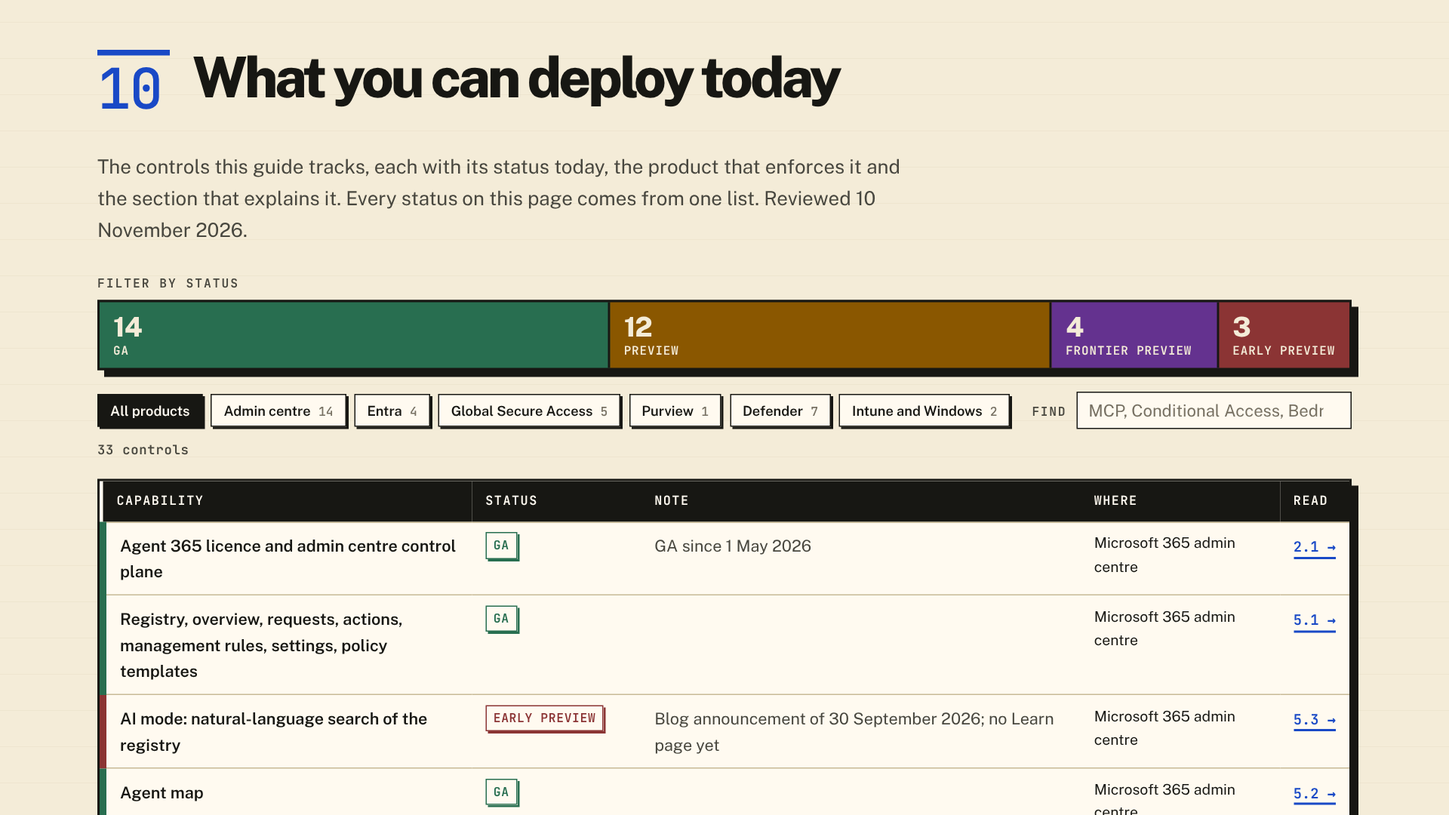
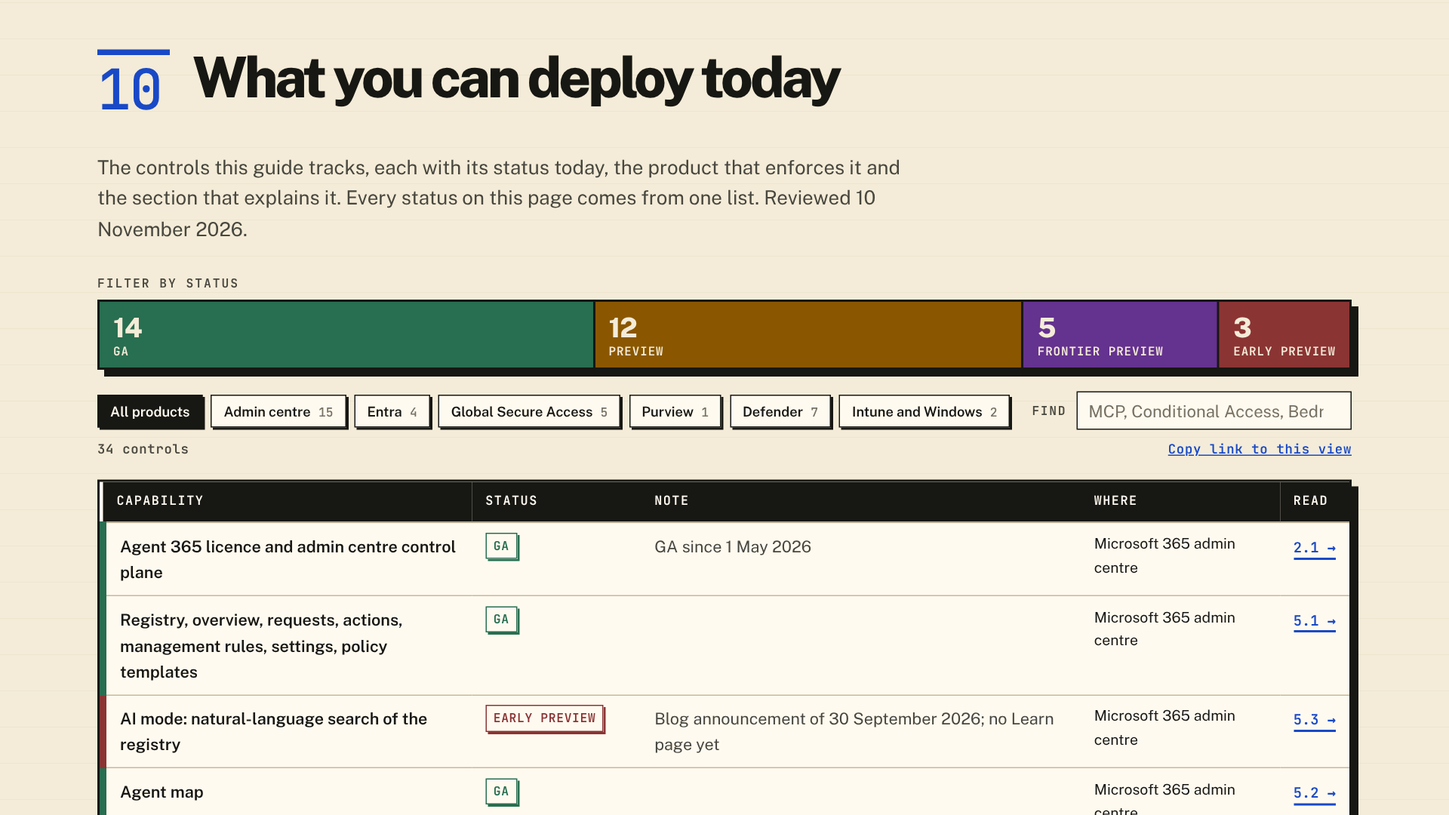
Pre-merge review: shareable board views, clear filters, filter counts in the digest, use case classification in 6.4
Claude-Session: https://claude.ai/code/session_01MXrm99psAGu2YZowAsLrtz

diff --git a/index.html b/index.html
@@ -619,6 +619,7 @@
   <section id="s6-4" data-search>
   <h3>6.4 Tenant settings</h3>
   <p>The same page controls agent and plugin access (Microsoft, your organisation, external publishers), sharing scope for Agent Builder agents, user access (all, none, or specific groups), developer feedback, and up to fifty tags. User access is the blunt instrument: specific groups means only those groups can use any agent. Agent and plugin access is the finer one, and it covers plugins too: tools, MCP servers, connectors and skills. Disabling external publishers hides third-party agents and plugins from the Agent store; Microsoft-built ones stay visible when disabled but cannot be installed. Data processed by non-Microsoft agents and plugins is not covered by your Microsoft agreements, so review the publisher's terms before allowing that category. One boundary to know: the <a href="https://learn.microsoft.com/en-us/microsoft-365/admin/manage/manage-copilot-agents-integrated-apps" target="_blank" rel="noopener">Manage agents page</a> says Researcher and Analyst are part of the core Copilot Chat experience and do not fall under any agent-related setting, so nothing on this page reaches them.</p>
+  <p data-tier="use-case-classification">One setting here is on by default. <a href="https://learn.microsoft.com/en-us/microsoft-agent-365/admin/business-use-case-for-agents" target="_blank" rel="noopener">Use case classification</a>, <span class="st" data-st="use-case-classification"></span>, assigns every eligible agent session to a use case from a predefined taxonomy, such as requirements documentation or data loss prevention. The totals show on each agent's Activity tab and in the agent map. The labels come from that taxonomy, so project names and other tenant terms do not surface. A Global Administrator or AI Administrator turns it off under Agents, Settings, Use case classification. Classification stops within about a day, and earlier results are hidden, not deleted. Microsoft calls the results directionally accurate and not an audit record, so treat them as a trend.</p>
   </section>
 
   <section id="s6-5" data-search>
@@ -1189,7 +1190,7 @@ Set-MpPreference -AiAgentNetworkInspection Audit</code></pre>
   <div class="board" id="board">
     <div class="meter" data-meter="board"></div>
     <div class="board-tools" id="board-tools"></div>
-    <p class="board-count" id="board-count" aria-live="polite"></p>
+    <p class="board-count"><span id="board-count" aria-live="polite"></span><button type="button" class="linkbtn" id="board-clear" hidden>Clear filters</button><button type="button" class="linkbtn" id="board-copy" hidden>Copy link to this view</button></p>
     <div class="tbl board-tbl"><table id="avail">
     <thead><tr><th>Capability</th><th>Status</th><th>Note</th><th>Where</th><th>Read</th></tr></thead>
     <tbody>
@@ -1207,6 +1208,7 @@ Set-MpPreference -AiAgentNetworkInspection Audit</code></pre>
     <tr data-tier="byo-mcp" data-tier-value="preview"><td class="c-name">Bring your own MCP server</td><td class="c-status"><span class="badge t-preview">Preview</span></td><td class="c-note muted"></td><td class="c-where">Admin centre and CLI</td><td class="c-read"><a href="#s6-5">6.5</a></td></tr>
     <tr data-tier="shadow-ai-page" data-tier-value="frontier"><td class="c-name">Shadow AI page</td><td class="c-status"><span class="badge t-frontier">Frontier preview</span></td><td class="c-note muted"></td><td class="c-where">Microsoft 365 admin centre</td><td class="c-read"><a href="#s5-5">5.5</a></td></tr>
     <tr data-tier="local-agents-page" data-tier-value="frontier"><td class="c-name">Local agents page</td><td class="c-status"><span class="badge t-frontier">Frontier preview</span></td><td class="c-note muted"></td><td class="c-where">Microsoft 365 admin centre</td><td class="c-read"><a href="#s5-5">5.5</a></td></tr>
+    <tr data-tier="use-case-classification" data-tier-value="frontier"><td class="c-name">Use case classification of agent sessions</td><td class="c-status"><span class="badge t-frontier">Frontier preview</span></td><td class="c-note muted">On by default; opt out under Agents, Settings</td><td class="c-where">Microsoft 365 admin centre</td><td class="c-read"><a href="#s6-4">6.4</a></td></tr>
     <tr data-tier="own-identity" data-tier-value="frontier"><td class="c-name">Agents with their own identity, AI teammate templates</td><td class="c-status"><span class="badge t-frontier">Frontier preview</span></td><td class="c-note muted"></td><td class="c-where">Microsoft 365 admin centre</td><td class="c-read"><a href="#s6-8">6.8</a></td></tr>
     <tr data-tier="agent-id" data-tier-value="ga"><td class="c-name">Entra Agent ID, blueprints, identities, agent users</td><td class="c-status"><span class="badge t-ga">GA</span></td><td class="c-note muted">GA for all Entra customers</td><td class="c-where">Entra</td><td class="c-read"><a href="#s7-1">7.1</a></td></tr>
     <tr data-tier="conditional-access" data-tier-value="ga"><td class="c-name">Conditional Access for agents</td><td class="c-status"><span class="badge t-ga">GA</span></td><td class="c-note muted">Agent risk and Agent execution environments conditions in preview</td><td class="c-where">Entra</td><td class="c-read"><a href="#s7-1">7.1</a></td></tr>

diff --git a/guide.js b/guide.js
@@ -89,7 +89,29 @@
     tools.querySelectorAll('[data-fam]').forEach(b => b.addEventListener('click', () => { filter.family = b.dataset.fam; applyBoard(); }));
     tools.querySelector('#board-q').addEventListener('input', e => { filter.q = e.target.value.trim().toLowerCase(); applyBoard(); });
   }
-  if (reset) reset.addEventListener('click', () => { filter.tier = filter.family = filter.q = ''; const q = document.getElementById('board-q'); if (q) q.value = ''; applyBoard(); });
+  const clearAll = () => { filter.tier = filter.family = filter.q = ''; const q = document.getElementById('board-q'); if (q) q.value = ''; applyBoard(); };
+  const clear = document.getElementById('board-clear'), copy = document.getElementById('board-copy');
+  if (reset) reset.addEventListener('click', clearAll);
+  if (clear) clear.addEventListener('click', clearAll);
+
+  /* The address bar follows the status and product filters, so the view can be shared. */
+  const viewQuery = () => { const p = new URLSearchParams(); if (filter.tier) p.set('status', filter.tier); if (filter.family) p.set('product', filter.family.toLowerCase()); const q = p.toString(); return q ? '?' + q : ''; };
+  const syncAddress = () => { try { const want = location.pathname + viewQuery() + location.hash; if (want !== location.pathname + location.search + location.hash) history.replaceState(null, '', want); } catch (e) {} };
+  if (copy) {
+    copy.hidden = false;
+    copy.addEventListener('click', () => {
+      const url = location.origin + location.pathname + viewQuery() + '#s10';
+      const done = () => { copy.textContent = 'Link copied'; setTimeout(() => { copy.textContent = 'Copy link to this view'; }, 1800); };
+      if (navigator.clipboard && navigator.clipboard.writeText) navigator.clipboard.writeText(url).then(done, () => window.prompt('Copy this link', url));
+      else window.prompt('Copy this link', url);
+    });
+  }
+
+  /* Which filters readers reach for goes to the weekly digest: one count per filter per visit,
+     as #filter-preview or #filter-defender. What is typed in the find box is never recorded. */
+  const counted = new Set();
+  const countFilter = (v) => { if (!v || counted.has(v) || !window.goatcounter || !window.goatcounter.count) return; counted.add(v);
+    window.goatcounter.count({ path: location.pathname + '#filter-' + v.toLowerCase().replace(/[^a-z]+/g, '-'), title: 'Status board filter: ' + v, event: false }); };
 
   applyBoard = () => {
     let shown = 0;
@@ -104,6 +126,8 @@
     if (count) count.textContent = shown === rows.length ? `${rows.length} controls` : `Showing ${shown} of ${rows.length} controls` + (gaOnly ? '. The GA only switch in the header is on.' : '');
     if (empty) empty.hidden = shown > 0;
     const wrap = document.querySelector('.board-tbl'); if (wrap) wrap.hidden = shown === 0;
+    if (clear) clear.hidden = !(filter.tier || filter.family || filter.q) || shown === 0;
+    syncAddress(); countFilter(filter.tier); countFilter(filter.family);
   };
 
   /* A link can open the board already filtered: index.html?status=preview&product=Defender#s10 */

diff --git a/a365-data.js b/a365-data.js
@@ -41,6 +41,7 @@ window.A365 = {
     roadmap:  { label: "Early preview",    phrase: "in early preview" }
   },
   changes: [
+    { date: "10 November 2026", section: "s6-4", text: "Use case classification, a Frontier preview that is on by default, assigns every eligible agent session to a use case from a predefined taxonomy; a Global Administrator or AI Administrator can turn it off under Agents, Settings, and earlier results are then hidden, not deleted. Business use cases for agents page cited." },
     { date: "10 November 2026", section: "s5-4", text: "Agent 365 SDK 2.0 is available for Python, JavaScript and .NET. Most of its breaking changes sit in the deprecated observability packages; in .NET the authToken parameter no longer authenticates MCP servers, so an agent that relied on it alone returns no tools and no error. Migrate to Agent 365 SDK 2.0 page cited." },
     { date: "10 November 2026", section: "s5-5", text: "Defender for Endpoint lists a process-based agent as soon as its process runs, so an inventory entry is not proof that anyone used the tool. Local AI agent discovery page cited." },
     { date: "10 November 2026", section: "s10", kind: "guide", text: "Chapter 10 is a status board: a meter counts the controls by status and filters the list, product chips and a find box narrow it, every row links to the section that explains it, and on a phone each control is a card. Sections changed in the last fortnight carry an Updated marker, the newest changes sit under the hero, and the changelog has its own page." },
@@ -113,6 +114,7 @@ window.A365 = {
     { key: "byo-mcp",            name: "Bring your own MCP server", tier: "preview", sec: "s6-5", where: "Admin centre and CLI" },
     { key: "shadow-ai-page",     name: "Shadow AI page", tier: "frontier", sec: "s5-5", where: "Microsoft 365 admin centre" },
     { key: "local-agents-page",  name: "Local agents page", tier: "frontier", sec: "s5-5", where: "Microsoft 365 admin centre" },
+    { key: "use-case-classification", name: "Use case classification of agent sessions", tier: "frontier", note: "On by default; opt out under Agents, Settings", sec: "s6-4", where: "Microsoft 365 admin centre" },
     { key: "own-identity",       name: "Agents with their own identity, AI teammate templates", tier: "frontier", sec: "s6-8", where: "Microsoft 365 admin centre" },
     { key: "agent-id",           name: "Entra Agent ID, blueprints, identities, agent users", tier: "ga", note: "GA for all Entra customers", sec: "s7-1", where: "Entra" },
     { key: "conditional-access", name: "Conditional Access for agents", tier: "ga", note: "Agent risk and Agent execution environments conditions in preview", sec: "s7-1", where: "Entra" },

diff --git a/changes.html b/changes.html
@@ -68,7 +68,7 @@
   <h1>What changed in the Agent 365 field guide, and when</h1>
   <p class="lede">Agent 365 moves weekly, and so does the Learn documentation behind it. Every Monday each Learn page this guide cites is read again, and when one has moved the guide moves with it. This page is the record: one entry per change, newest first, with the section it touched and the Learn page it came from. Entries about the guide itself are marked Guide.</p>
   <div class="field-stats" aria-label="Page summary">
-    <span><b data-static="changes-count">57</b> changes logged</span>
+    <span><b data-static="changes-count">58</b> changes logged</span>
     <span><b data-val="reviewed">10 November 2026</b> last reviewed</span>
     <span><b>4 September 2026</b> first published</span>
     <span><b>Every Monday</b> Learn pages re-read</span>
@@ -82,6 +82,7 @@
   <section id="d2026-11-10">
   <h3>10 November 2026</h3>
   <ul class="changes">
+    <li><b><a href="index.html#s6-4">6.4</a></b> Use case classification, a Frontier preview that is on by default, assigns every eligible agent session to a use case from a predefined taxonomy; a Global Administrator or AI Administrator can turn it off under Agents, Settings, and earlier results are then hidden, not deleted. Business use cases for agents page cited.</li>
     <li><b><a href="index.html#s5-4">5.4</a></b> Agent 365 SDK 2.0 is available for Python, JavaScript and .NET. Most of its breaking changes sit in the deprecated observability packages; in .NET the authToken parameter no longer authenticates MCP servers, so an agent that relied on it alone returns no tools and no error. Migrate to Agent 365 SDK 2.0 page cited.</li>
     <li><b><a href="index.html#s5-5">5.5</a></b> Defender for Endpoint lists a process-based agent as soon as its process runs, so an inventory entry is not proof that anyone used the tool. Local AI agent discovery page cited.</li>
     <li><b><a href="index.html#s10">10</a></b> Chapter 10 is a status board: a meter counts the controls by status and filters the list, product chips and a find box narrow it, every row links to the section that explains it, and on a phone each control is a card. Sections changed in the last fortnight carry an Updated marker, the newest changes sit under the hero, and the changelog has its own page.</li>

diff --git a/guide.css b/guide.css
@@ -509,7 +509,7 @@ footer{border-block-start:8px solid var(--ink);background:var(--paper-2)}
 .find span{font:700 .68rem var(--mono);letter-spacing:.1em;text-transform:uppercase;color:var(--ink-2)}
 .find input{flex:1;min-width:0;font:400 .92rem var(--sans);padding:.45rem .6rem;border:1.5px solid var(--ink);border-radius:0;background:var(--paper-2);color:var(--ink)}
 .find input::placeholder{color:var(--ink-3)}
-.board-count{font:600 .72rem var(--mono);letter-spacing:.04em;color:var(--ink-2);margin:.4rem 0 0;max-width:none}
+.board-count{display:flex;flex-wrap:wrap;gap:.3rem 1.1rem;align-items:baseline;font:600 .72rem var(--mono);letter-spacing:.04em;color:var(--ink-2);margin:.4rem 0 0;max-width:none}.board-count .linkbtn{font:600 .72rem var(--mono);letter-spacing:.04em}.board-count .linkbtn[hidden]{display:none}#board-copy{margin-inline-start:auto}
 .board-empty{margin-block:1.2rem;padding:1rem 1.1rem;border:2px dashed var(--ink-3);max-width:none}
 .linkbtn{font:inherit;color:var(--accent);background:none;border:0;padding:0;text-decoration:underline;cursor:pointer;min-height:0}
 .board-tbl[hidden]{display:none}
@@ -528,7 +528,7 @@ footer{border-block-start:8px solid var(--ink);background:var(--paper-2)}
 #avail tbody tr:hover{background:color-mix(in srgb,var(--accent-soft) 55%,transparent)}
 
 .latest{margin-block:2rem 0;padding:1rem 1.1rem 1.05rem;border:2px solid var(--ink);background:var(--paper-2);box-shadow:6px 6px 0 var(--signal);max-width:100%}
-.latest-hero{margin-block-start:1.6rem}
+.latest-hero{margin-block-start:1.6rem}.latest-hero .latest-list span{display:-webkit-box;-webkit-box-orient:vertical;-webkit-line-clamp:2;line-clamp:2;overflow:hidden}
 .latest-list{list-style:none;margin:0;padding:0;max-width:none}
 .latest-list li{display:grid;grid-template-columns:4.2rem 2.6rem minmax(0,1fr);gap:.2rem .7rem;align-items:baseline;padding-block:.5rem;border-block-start:1px solid var(--rule);margin:0}
 .latest-list li:first-child{border-block-start:0;padding-block-start:.1rem}

diff --git a/scripts/feedback_collect.py b/scripts/feedback_collect.py
@@ -140,7 +140,10 @@ def goatcounter():
             return rest == "" or rest.endswith(".html")
         rows = [r for r in hits.get("hits", []) if (r.get("path") or "").startswith(SITE_PATH) and is_page(r["path"])]
         pages = [r for r in rows if "#" not in r["path"]]
-        sections = [r for r in rows if "#" in r["path"]]
+        hashed = [r for r in rows if "#" in r["path"]]
+        # guide.js records a status board filter as #filter-preview or #filter-defender.
+        board = [r for r in hashed if r["path"].split("#", 1)[1].startswith("filter-")]
+        sections = [r for r in hashed if r not in board]
         visitors = sum(r.get("count", 0) for r in pages)
         lines.append(f"Last 7 days: **{visitors} visitors** on `{SITE_PATH}` against a target of {TARGET} "
                      f"({len(sections)} distinct sections opened by hash).")
@@ -164,6 +167,11 @@ def goatcounter():
             lines.append("|---|---|")
             for r in sorted(sections, key=lambda r: -r.get("count", 0))[:15]:
                 lines.append(f"| {r['path'].split('#', 1)[1]} | {r.get('count', 0)} |")
+        if board:
+            lines.append("")
+            lines.append("Status board filters used (chapter 10; one count per filter per visit):")
+            for r in sorted(board, key=lambda r: -r.get("count", 0)):
+                lines.append(f"- {r['path'].split('#filter-', 1)[1]}: {r.get('count', 0)}")
         ids = [r["path_id"] for r in rows if "path_id" in r]
         if ids:
             q = urllib.parse.urlencode({**rng, "limit": 10, "include_paths": ids}, doseq=True)

diff --git a/PLAN.md b/PLAN.md
@@ -37,21 +37,21 @@ and the article pull request (#78), because their commits are in it.
   sentence corrected against the 9 November Learn change, a second cover
   showing the status board. Three Low writing-review flags wait on Rodney;
   the default is keep.
-- **Open decision: business use cases (Frontier).** Learn has two new pages.
-  Agent Map classifies every agent session into a predefined business use
-  case, on by default, with an opt-out under Agents, Settings, Use case
-  classification. The value reporting is out of scope by the 11 October
-  decision on the Consumption Dashboard. The default-on classification of
-  session activity and its opt-out are a setting a compliance engineer would
-  want to know about; a sentence in 6.4 would cover it. Not added.
+- **Use case classification is in 6.4** (10 November, added in the
+  pre-merge review). Agent Map classifies every eligible agent session into
+  a predefined business use case, on by default, with an opt-out under
+  Agents, Settings. The setting, who can change it and what happens to
+  earlier results are in the guide as a Frontier preview control. The value
+  and return-on-investment reporting built on it stays out, by the
+  11 October decision on the Consumption Dashboard; see Out of scope. Take
+  the paragraph out if you would sooner not cover it.
 - **The week of 26 October is explained, and the native-post test is run.**
   Rodney posted the 25 October feed post with the chapter 4 map, from the
   draft on the closed pull request #73, and said so on 10 November. It drew
   3,605 impressions, 74 per cent out of network, 30 saves, 5 reposts, 19
   followers and 40 clicks; the article of 6 October drew 986 impressions, 2
   saves and no followers. Numbers side by side in
-  `distribution/2026-10-25-linkedin-post.md`. The post URL is still to
-  record.
+  `distribution/2026-10-25-linkedin-post.md`.
 - **Format: Rodney is leaning post-first** (10 November). A feed post in the
   same shape is drafted for today in `distribution/2026-11-10-linkedin-post.md`
   with the status board as its image, beside the article draft; post one, not
@@ -219,6 +219,7 @@ Decided by Rodney, with the date, so nobody re-opens these by accident.
 | Since | Topic | Decision |
 |---|---|---|
 | 21 September 2026 | Microsoft 365 Government Community Cloud (GCC, G7) availability | Out of scope. GCC is a United States programme and this guide's readers are not in it. The service description's "GCC Availability" column is not tracked and chapter 2 carries no GCC caveat. Reopen only if a reader asks for it explicitly, through an issue. Drift pull requests that mention GCC changes can be merged without adding prose. |
+| 10 November 2026 | Business use cases for agents (Frontier) | Partly. The Use case classification setting is in 6.4: it is on by default, classifies agent sessions, and an administrator can turn it off, which a compliance engineer needs to know. The adoption, duplication and return-on-investment reporting built on the classifications is out of scope, for the same reason as the Consumption Dashboard. Added by Claude in a pre-merge review; Rodney to confirm or remove. |
 | 11 October 2026 | Cost management and the Consumption Dashboard | Partly. Spending policies (credit caps and model allow-lists per group) are in scope as a chapter 6 section once a Learn page exists; see item 9 above. The Consumption Dashboard's credits-to-value reporting is out of scope: a finance report, not a control a security or compliance engineer deploys. Reopen only if a reader asks. |
 | 6 October 2026 | FedRAMP and other US federal authorisations | Out of scope, for the same reason as GCC: the guide is for commercial customers in Europe and worldwide, and no European buyer decides on FedRAMP. The 5 October drift run added a FedRAMP High sentence to 2.1; it was taken out before merging. The drift prompt now names GCC and FedRAMP as out of scope, so future runs note them in CHANGES.md without editing prose. Data residency and the EU Data Boundary stay in 5.6. |
 
@@ -228,11 +229,12 @@ Newest first. One line per item shipped, with the pull request.
 
 | Date | Focus | Shipped | Evidence |
 |---|---|---|---|
+| 10 November 2026 | Structure | Pre-merge review of the status board against how the guide is used: shared in Teams and LinkedIn, steered by the Monday digest. Four additions. A Clear filters control whenever a filter is on (before, a status filter could only be undone by pressing the same segment again). The address bar follows the status and product filters and a Copy link to this view control copies it, so a filtered view can be sent to a customer. Each status or product filter a reader uses is counted once per visit and listed in the digest under "Status board filters used"; what is typed in the find box is never recorded. The hero's latest changes are cut to two lines each. Thirty-four controls with the new 6.4 row. | this pull request |
 | 10 November 2026 | Structure | Chapter 10 rebuilt as a status board, on the evidence that it is the landing section (44, 94 and 73 per cent of visitors in the last three digests) and that its table clipped two columns on a phone. A meter counts the controls by status and filters on click; product chips and a find box narrow the list; each row carries a status stripe and a link to the section that explains it, from a new `sec` field on every capability; at 760px and below each row is a card. The same meter sits under the hero with the three newest product changes, the end of chapter 10 lists the five newest and three ways onward, and sections a product change touched in the fortnight before the review date carry an Updated marker and a dot in the contents panel. The board's rows are a static copy written by `check_pages.py --fix`, so crawlers and readers without JavaScript see the statuses; a link can open the board filtered (`?status=preview&product=defender#s10`). Identity unchanged: same type, palette, borders and offset shadows. Rendered at 390, 768 and 1440 in light and dark: no overflow, no script errors, filters, GA only switch and deep link exercised. | this pull request |
 | 10 November 2026 | 1 | `changes.html`, the changelog on its own page, built on 21 October and merged now: own title, description, canonical link and JSON-LD, in the sitemap, entries grouped by month and date with an anchor per date. Static copy of the `changes` array, regenerated and checked by `check_pages.py`. | this pull request |
-| 10 November 2026 | 3 | Reviewed the 9 November drift pull request against the live pages and merged it into this one. Kept: Connected platforms connect from a fixed set of outbound IP addresses, and a blocked connection can show an authentication error (5.4); Defender for Endpoint finds Visual Studio Code extensions from installed-extension data without a run (5.5). Added: an inventory entry is not proof of use (5.5); Agent 365 SDK 2.0 and the .NET `authToken` change, from the new migration page (5.4). Not added, for Rodney to decide: business use case classification (Frontier), on by default with an opt-out. Review date 10 November. Writing review on the new prose: two flags in my own sentences reworded before commit (a staged "One does not:" in 5.4, a repeated "Every" opening chapter 10). | #79 and this pull request |
+| 10 November 2026 | 3 | Reviewed the 9 November drift pull request against the live pages and merged it into this one. Kept: Connected platforms connect from a fixed set of outbound IP addresses, and a blocked connection can show an authentication error (5.4); Defender for Endpoint finds Visual Studio Code extensions from installed-extension data without a run (5.5). Added: an inventory entry is not proof of use (5.5); Agent 365 SDK 2.0 and the .NET `authToken` change, from the new migration page (5.4). Added in the pre-merge review: use case classification (Frontier), on by default with an opt-out, as a paragraph in 6.4 and a row on the board; its value reporting stays out of scope. Review date 10 November. Writing review on the new prose: two flags in my own sentences reworded before commit (a staged "One does not:" in 5.4, a repeated "Every" opening chapter 10). | #79 and this pull request |
 | 10 November 2026 | Plumbing | The drift workflow runs `check_pages.py --fix` before its check, commits `changes.html` and `sitemap.xml`, and reports what still fails in the check's own words. Before, every drift pull request arrived with a stale sitemap and a fixed "chapter 2 differs" line whatever had failed. The prompt tells the model to give a new capability a `sec` and to leave the static copies alone. | this pull request |
-| 10 November 2026 | 4 | The 25 October feed post logged as posted, about 26 October, with the chapter 4 map: 3,605 impressions (74% out of network), 2,181 members reached, 43 reactions, 7 comments, 5 reposts, 30 saves, 19 followers gained, 40 clicks to the guide; GoatCounter counted 49 LinkedIn visitors that week, 62 of 66 visitors on chapter 10. Against the 6 October article: 3.7 times the impressions, 3.8 times the visitors, 15 times the saves. The native-post test from 6 October is therefore run and the post won, with the caveat that it also carried a new diagram. Draft and cover restored from the closed pull request #73. A feed post in the same shape drafted for 10 November with the status board as its image; the feed post format added to `distribution/README.md`. | `distribution/2026-10-25-linkedin-post.md`; post URL to add |
+| 10 November 2026 | 4 | The 25 October feed post logged as posted, about 26 October, with the chapter 4 map: 3,605 impressions (74% out of network), 2,181 members reached, 43 reactions, 7 comments, 5 reposts, 30 saves, 19 followers gained, 40 clicks to the guide; GoatCounter counted 49 LinkedIn visitors that week, 62 of 66 visitors on chapter 10. Against the 6 October article: 3.7 times the impressions, 3.8 times the visitors, 15 times the saves. The native-post test from 6 October is therefore run and the post won, with the caveat that it also carried a new diagram. Draft and cover restored from the closed pull request #73. A feed post in the same shape drafted for 10 November with the status board as its image; the feed post format added to `distribution/README.md`. | [post](https://lnkd.in/p/eSvCrqWR) |
 | 10 November 2026 | 4 | The article for the week of 9 November updated for the 9 November drift and the redesign: discovery sentence corrected, a bullet for the outbound IP addresses (eight bullets), the "Also new" bullet leads with the status board, a second cover rendered from the board. Writing review of the changed passages logged in the file: three Low flags, none applied. | this pull request |
 | 6 November 2026 | 4 | LinkedIn article for the week of 9 November drafted in `distribution/2026-11-09-linkedin.md`, replacing the unsent 19 October article and the 25 October native post (#73, closed unposted at Rodney's call). Seven product changes from 11 October to 6 November, curated by hand because the 2 November digest draft covered only its fortnight: Defender for Endpoint discovery GA leads (endpoint, after two identity-led drafts), then runtime protection's supported agents and Intune template, agent-risk Conditional Access needing P2 or E5, Connected platforms observability and its billed queries and audit gap, prompts and responses in Azure agent observability data, duplicate registry entries, and the three kinds of MCP server; the chapter 4 map as the "Also new" bullet and the cover, re-rendered so the discovery badge reads GA. Execution Containers offered as an optional bullet, since it is not on Learn. Not yet posted. Writing review: three low flags; Rodney applied flag 1 (the Researcher and Analyst sentence now names the Manage agents page) and kept 2 and 3. | this pull request |
 | 6 November 2026 | 3 | Reviewed and extended the 2 November drift pull request, each edit checked against its live source. Verified and kept: activity metrics scoped to third-party agents (first-party agents report without the licence), the Databricks-managed service principal for Genie, Prompt Shields block events for Copilot Studio recorded as behaviours (7.3 needed no edit). Moved on release-notes evidence: Defender for Endpoint local agent discovery to GA for Windows and macOS (October what's new; WSL and macOS VS Code extension entries stay preview; matrix now 62 Windows, 59 macOS tools). Kept at preview with dated notes: posture risk (XDR what's new still says preview) and runtime protection (Intune's template is GA with a new AI agent runtime inspection setting, the Defender feature is not). Added: the Manage agents page to 6.1 and 6.4 with the creator-shared against organisation-published distinction, Execution Containers GA on Windows with Agent 365 integration still upcoming (7.4), and a two-sentence direction note on Dynamic Permissions, Dynamic Agent Risk, Dynamic Conditional Access and Project Perception (7.1). Deferred: the Action Center, blog-only, no Learn page. Seven changelog entries; review date 6 November. Merged the same day with #77, which adds announcement-feed discovery to the watcher. Writing review: three flags, all applied (a duplication, a narrowed claim, a wrong attribution). | #74, #77 |

diff --git a/README.md b/README.md
@@ -32,7 +32,7 @@ Plain HTML, no build step, no framework. Four files at the root do the work:
 - `index.html` is the full guide.
 - `licensing.html` is chapter 2 published on its own page so that it can be found on its own. Its chapter block is a copy of the one in `index.html`; `scripts/check_pages.py` fails the build if the two differ.
 - `changes.html` is the changelog published on its own page, grouped by month and date, so each week's changes have an address to link to. Its list is a static copy of the `changes` array in `a365-data.js`; `scripts/check_pages.py --fix` regenerates it and the build fails when it drifts.
-- Chapter 10 of `index.html` is the status board, the section most readers land on. A meter counts the controls by status and filters the list on click, product chips and a find box narrow it, and each row links to the section that explains it through the capability's `sec` field in `a365-data.js`. On a phone each row is a card. Its rows are a static copy of the `capabilities` array, written by `scripts/check_pages.py --fix` like the changelog, so the board reads without JavaScript. A link can open it filtered: `index.html?status=preview&product=defender#s10` (status is `ga`, `preview`, `frontier` or `roadmap`).
+- Chapter 10 of `index.html` is the status board, the section most readers land on. A meter counts the controls by status and filters the list on click, product chips and a find box narrow it, and each row links to the section that explains it through the capability's `sec` field in `a365-data.js`. On a phone each row is a card. Its rows are a static copy of the `capabilities` array, written by `scripts/check_pages.py --fix` like the changelog, so the board reads without JavaScript. A link can open it filtered: `index.html?status=preview&product=defender#s10` (status is `ga`, `preview`, `frontier` or `roadmap`). The address bar follows the filters and the board has a Copy link to this view control, so a filtered view can be shared. Each status or product filter a reader uses is sent to GoatCounter once per visit as `#filter-preview` or `#filter-defender`, and the Monday digest lists them; text typed in the find box is never recorded.
 - A section a product change touched in the fortnight before the review date carries an Updated marker under its heading and a dot in the contents panel. `guide.js` works that out from the `changes` array; nothing is typed.
 - `a365-data.js` holds everything that goes stale: the review date, GA and transition dates, prices, the trial offer, the changelog, and the status of every capability. Status badges, the "in preview" phrases in the prose, and the deploy-today table all render from that object on every page. To update a status, change the tier there. Do not edit it in the prose.
 - `guide.css` and `guide.js` are the shared tokens, layout and behaviour.

diff --git a/distribution/2026-11-09-linkedin.md b/distribution/2026-11-09-linkedin.md
@@ -90,7 +90,7 @@ Eight things moved on Microsoft Learn, and the guide moved with them:
 
 • **MCP servers** come in **three kinds**: Work IQ MCP, Microsoft-hosted workload servers kept for backward compatibility, and custom servers you register yourself. The **Agent 365 CLI** can evaluate a server before you register it. agent-365-guide/#s6-5
 
-• Also new to the guide: chapter 10 is a **status board**. Filter the thirty-three controls by status or product, and follow each one to the section that explains it. Chapter 4 has a **map of where agents run**, and every change sits on its own page by date. agent-365-guide/#s10
+• Also new to the guide: chapter 10 is a **status board**. Filter the thirty-four controls by status or product, and follow each one to the section that explains it. Chapter 4 has a **map of where agents run**, and every change sits on its own page by date. agent-365-guide/#s10
 
 Every claim in this guide links to Learn. GA/Preview status badges follow Microsoft's release notes, checked every Monday.
 
@@ -139,7 +139,7 @@ default is keep, and Rodney has not decided these.
 |---|---|---|---|---|---|
 | 4 | "An entry is not proof that anyone used the tool, and the list is not a software inventory." | T4 cousin | Two negations in one sentence, straight after "even if they never run". Each one corrects a wrong reading of the inventory, so it reads as precision, but three in two sentences is a pattern. | Low | "An entry does not prove the tool was used, and the list is not a software inventory." Or keep. |
 | 5 | The lead bullet as a whole | T2 | Now four sentences and about 75 words, the longest bullet, with three sentences of similar length. | Low | Note only. Dropping the tool counts would shorten it, but they are the checkable fact. |
-| 6 | "Filter the thirty-three controls by status or product, and follow each one to the section that explains it." | T5 edge | Two imperatives in parallel, in a bullet that then lists two more features. Reads as a feature list, which the "Also new" bullet is. | Low | Note only, no action. |
+| 6 | "Filter the thirty-four controls by status or product, and follow each one to the section that explains it." | T5 edge | Two imperatives in parallel, in a bullet that then lists two more features. Reads as a feature list, which the "Also new" bullet is. | Low | Note only, no action. |
 
 Also checked: the new Connected platforms bullet has three sentences of 14,
 14 and 16 words. That is narrow (T2), but it is one bullet of three plain

diff --git a/distribution/2026-10-25-linkedin-post.md b/distribution/2026-10-25-linkedin-post.md
@@ -17,8 +17,8 @@ without one).
 3. When it is live, add the post URL to the Posted line below and tell Claude
    "posted, <url>", which also fills the focus 4 row in `PLAN.md`.
 
-Posted: about 26 October 2026, as a feed post with the map image, body as
-below. Post URL not recorded yet. The post's link to the guide was shortened
+Posted: about 26 October 2026, https://lnkd.in/p/eSvCrqWR, as a feed post
+with the map image, body as below. The post's link to the guide was shortened
 by LinkedIn to https://lnkd.in/erSHfpD5. LinkedIn showed "2w" on 10 November,
 and GoatCounter counted 36 visitors on 26 October, so that is the day. This
 file sat on a closed pull request (#73) marked as skipped until Rodney said
